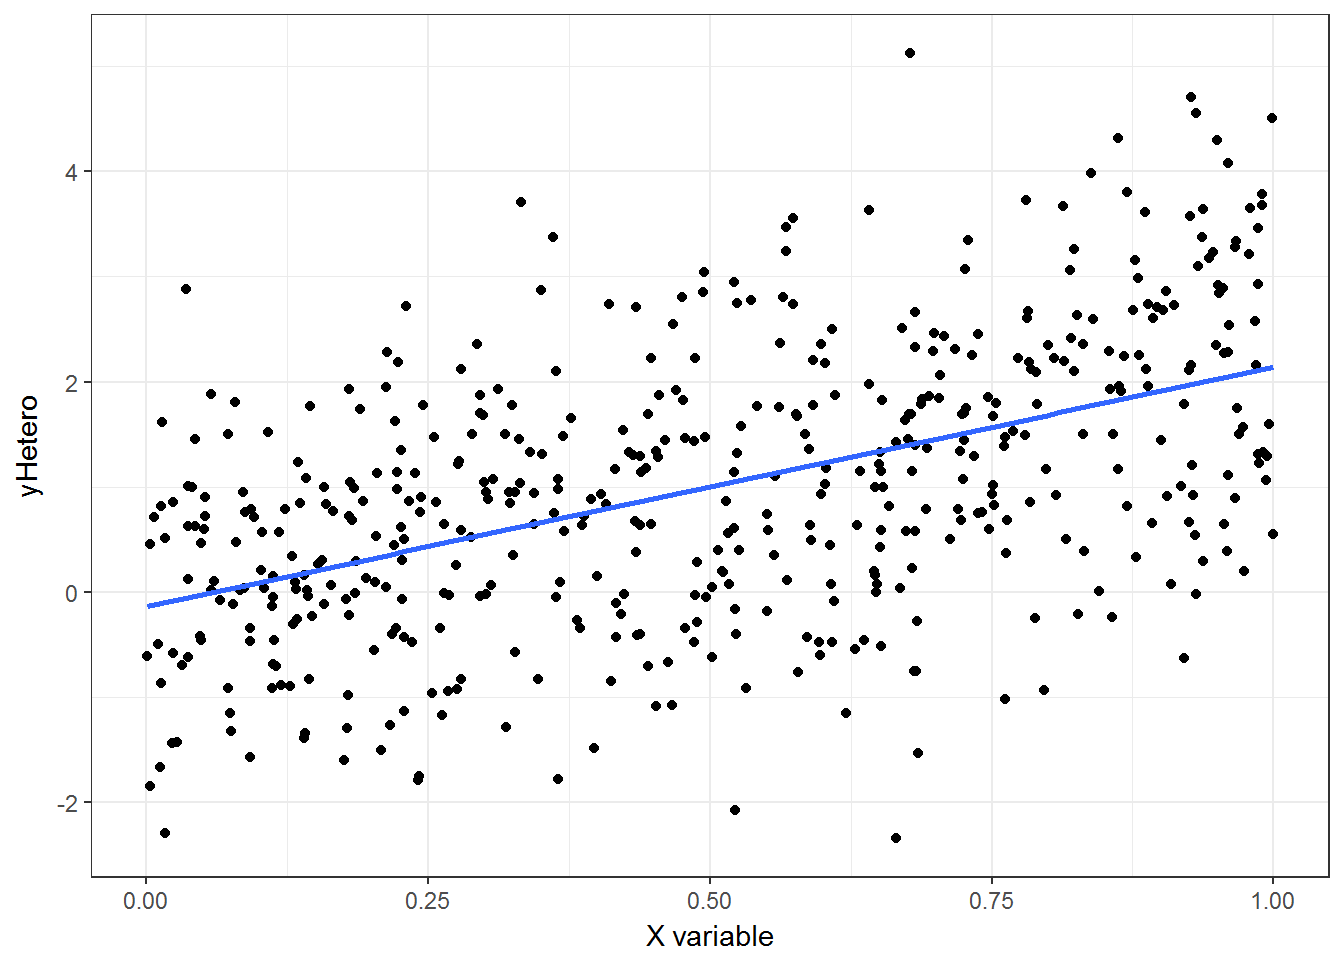
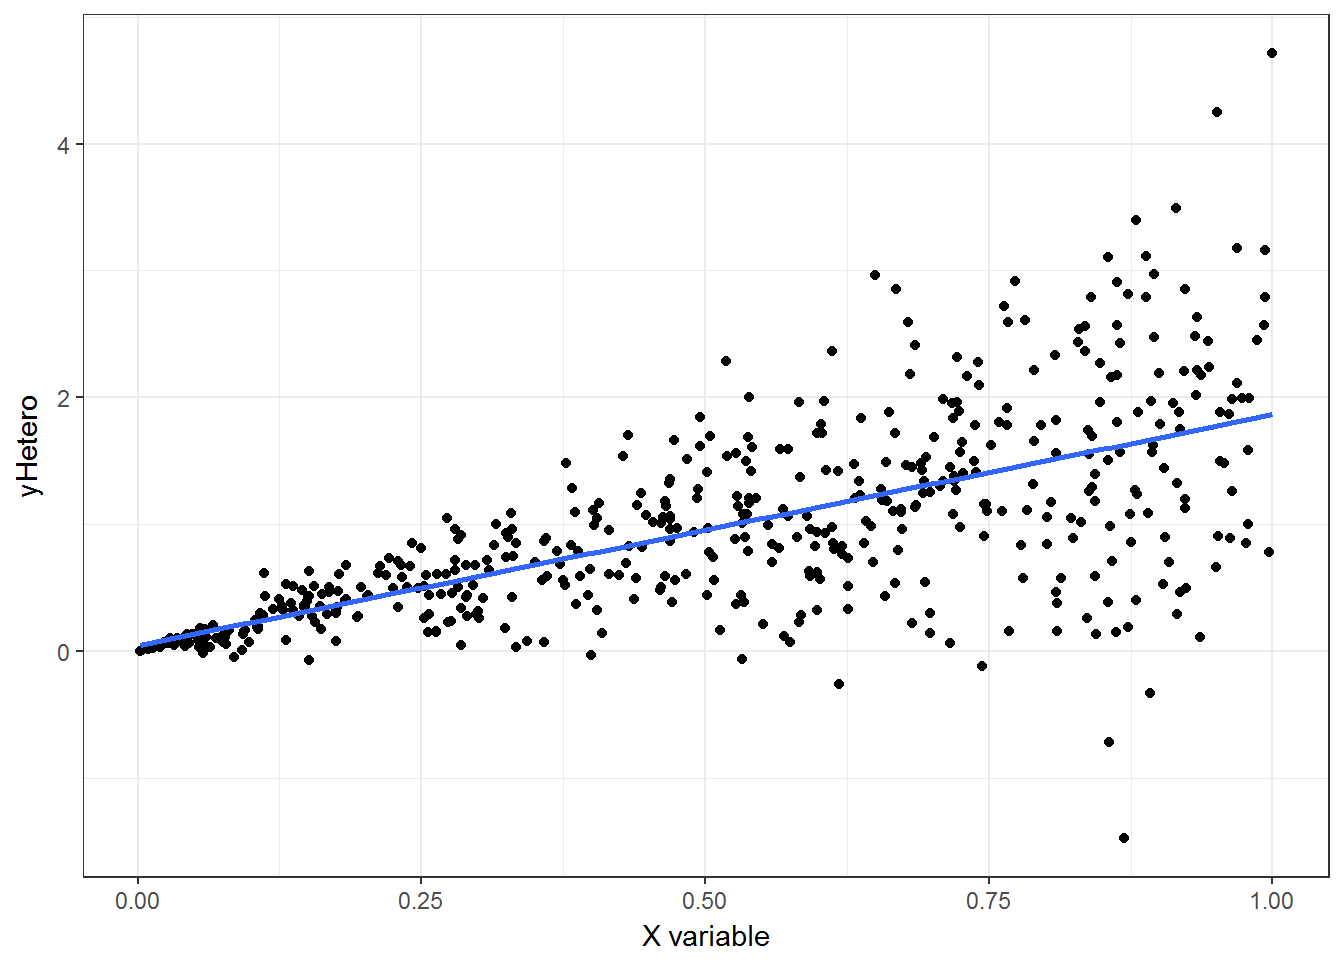
minor

diff --git a/docs/heteroskedastic-cluster-robust-standard-errors.html b/docs/heteroskedastic-cluster-robust-standard-errors.html
@@ -111,7 +111,7 @@ code > span.in { color: #60a0b0; font-weight: bold; font-style: italic; } /* Inf
 <li class="chapter" data-level="1.2" data-path="heteroskedastic-cluster-robust-standard-errors.html"><a href="heteroskedastic-cluster-robust-standard-errors.html#heteroskedascity"><i class="fa fa-check"></i><b>1.2</b> Heteroskedascity</a></li>
 <li class="chapter" data-level="1.3" data-path="heteroskedastic-cluster-robust-standard-errors.html"><a href="heteroskedastic-cluster-robust-standard-errors.html#clustering"><i class="fa fa-check"></i><b>1.3</b> Clustering</a></li>
 <li class="chapter" data-level="1.4" data-path="heteroskedastic-cluster-robust-standard-errors.html"><a href="heteroskedastic-cluster-robust-standard-errors.html#test-data"><i class="fa fa-check"></i><b>1.4</b> Test data</a></li>
-<li class="chapter" data-level="1.5" data-path="heteroskedastic-cluster-robust-standard-errors.html"><a href="heteroskedastic-cluster-robust-standard-errors.html#standard-least-squares-with-homoskedasctic-standard-errors"><i class="fa fa-check"></i><b>1.5</b> Standard Least Squares with homoskedasctic standard errors</a></li>
+<li class="chapter" data-level="1.5" data-path="heteroskedastic-cluster-robust-standard-errors.html"><a href="heteroskedastic-cluster-robust-standard-errors.html#standard-errors-under-iid"><i class="fa fa-check"></i><b>1.5</b> Standard Errors under iid</a></li>
 <li class="chapter" data-level="1.6" data-path="heteroskedastic-cluster-robust-standard-errors.html"><a href="heteroskedastic-cluster-robust-standard-errors.html#heteroskedastic-consistent-errors-in-r"><i class="fa fa-check"></i><b>1.6</b> Heteroskedastic consistent errors in R</a></li>
 <li class="chapter" data-level="1.7" data-path="heteroskedastic-cluster-robust-standard-errors.html"><a href="heteroskedastic-cluster-robust-standard-errors.html#cluster-robust-errors-in-r"><i class="fa fa-check"></i><b>1.7</b> Cluster robust errors in R</a></li>
 <li class="chapter" data-level="1.8" data-path="heteroskedastic-cluster-robust-standard-errors.html"><a href="heteroskedastic-cluster-robust-standard-errors.html#block-bootstrapping"><i class="fa fa-check"></i><b>1.8</b> Block bootstrapping</a><ul>
@@ -180,7 +180,7 @@ code > span.in { color: #60a0b0; font-weight: bold; font-style: italic; } /* Inf
 <div class="sourceCode"><pre class="sourceCode r"><code class="sourceCode r"><span class="co">#Generate Data  </span>
   x &lt;-<span class="st"> </span><span class="kw">runif</span>(<span class="dv">500</span>)
   yHomo &lt;-<span class="st"> </span><span class="dv">2</span>*x +<span class="st"> </span><span class="kw">rnorm</span>(<span class="dv">500</span>)
-  yHetero &lt;-<span class="st"> </span><span class="dv">2</span>*x +<span class="st"> </span>x*<span class="kw">rnorm</span>(<span class="dv">500</span>) +<span class="st"> </span><span class="kw">rnorm</span>(<span class="dv">500</span>)
+  yHetero &lt;-<span class="st"> </span><span class="dv">2</span>*x +<span class="st"> </span>x*<span class="kw">rnorm</span>(<span class="dv">500</span>)
   df &lt;-<span class="st"> </span><span class="kw">as.data.frame</span>(<span class="kw">cbind</span>(x, yHomo, yHetero))
 
 <span class="co">#Scatter and Fitted Line </span>
@@ -224,11 +224,11 @@ df &lt;-<span class="st"> </span><span class="kw">as_tibble</span>(<span class="
 ## 4     1     4 -0.1524857 -1.1093940
 ## 5     1     5 -0.0014262  0.9146864
 ## 6     1     6 -1.2127370 -1.4246860</code></pre>
-<p>This data represents financial information by year on a group of firms. We use this as a benchmark because several other online posts/bloggers compare this data using different specifications and software (<span class="citation">Petersen (<a href="#ref-peterson2009">2009</a>)</span>).</p>
+<p>This data represents financial information by year on a group of firms. We use this as a benchmark because several other online posts/bloggers compare this data using different specifications and software.<span class="citation">Petersen (<a href="#ref-peterson2009">2009</a>)</span></p>
 <p>The expected results we will recreate are given here: <a href="http://www.kellogg.northwestern.edu/faculty/petersen/htm/papers/se/test_data.htm" class="uri">http://www.kellogg.northwestern.edu/faculty/petersen/htm/papers/se/test_data.htm</a></p>
 </div>
-<div id="standard-least-squares-with-homoskedasctic-standard-errors" class="section level2">
-<h2><span class="header-section-number">1.5</span> Standard Least Squares with homoskedasctic standard errors</h2>
+<div id="standard-errors-under-iid" class="section level2">
+<h2><span class="header-section-number">1.5</span> Standard Errors under iid</h2>
 <div class="sourceCode"><pre class="sourceCode r"><code class="sourceCode r">m1 &lt;-<span class="st"> </span><span class="kw">lm</span>(y ~<span class="st"> </span>x, <span class="dt">data =</span> df)
 <span class="kw">coeftest</span>(m1)</code></pre></div>
 <pre><code>## 
@@ -240,19 +240,19 @@ df &lt;-<span class="st"> </span><span class="kw">as_tibble</span>(<span class="
 ## ---
 ## Signif. codes:  0 &#39;***&#39; 0.001 &#39;**&#39; 0.01 &#39;*&#39; 0.05 &#39;.&#39; 0.1 &#39; &#39; 1</code></pre>
 <p>You can compare these results with Table “OLS Coefficients and Standard Errors”. R computes the regression coefficients with <span class="math inline">\(( \textbf{X}&#39;\textbf{X})^{-1}\textbf{X}&#39;\textbf{y}\)</span> i.e. the coefficient is a function of X and y.</p>
-<p>Variance in general is computed like so: <span class="math inline">\(Var(X) = E[X − E(X)]^2 = E[(X − E(X)) (X − E(X))]\)</span></p>
 <p>In a regression framework you compute standard errors by taking the square root of the diagonal elements of the variance-covariance matrix.</p>
-<p>Equation 1. Covariance matrix of the error term <span class="math inline">\(u\)</span> <span class="math inline">\(E[{uu}&#39;|\textbf{X}] = \mathbf{\Sigma_{u}}\)</span></p>
+<p>Equation 1. Covariance matrix of the error term <span class="math inline">\(u\)</span><br />
+<span class="math inline">\(E[{uu}&#39;|\textbf{X}] = \mathbf{\Sigma_{u}}\)</span></p>
 <p>Equation 2.<br />
 <span class="math inline">\(\mathbf{\Sigma_{u}} = \sigma^2 I_{N}\)</span></p>
 <p>Equation 3. Expectation of the variance of <span class="math inline">\(\beta\)</span> conditional on X.<br />
 <span class="math inline">\(\textrm{Var}[\hat{\mathbf{\beta}}|\textbf{X}] = (\textbf{X}&#39;\textbf{X})^{-1}(\textbf{X}&#39; \mathbf{\Sigma_{u}} \textbf{X}) (\textbf{X}&#39;\textbf{X})^{-1}\)</span></p>
-<p>Under the assumption of independent and identically distributed errors and homoskedascity, Equation 3 is simplified to equation 4 (transpose matrix, using diagonal elements).</p>
+<p>Under the assumption of independent and identically distributed errors (homoskedascity), Eq. 3 is simplified to eq. 4 (transpose matrix, using diagonal elements).</p>
 <p>Equation 4. iid assumed <span class="math inline">\(\textrm{Var}[\hat{\mathbf{\beta}}|\textbf{X}] = \sigma_{u}^{2}(\textbf{X}&#39;\textbf{X})^{-1}\)</span></p>
 <p>Assuming <span class="math inline">\(\sigma_u^2\)</span> is fixed but unknown, and equation to esimate <span class="math inline">\(s^2\)</span> can be used:</p>
-<p>Equation 5. standard error</p>
+<p>Equation 5. Standard Error</p>
 <p><span class="math inline">\(s^2 = \frac{\sum_{i=1}^n e_i^2}{n-k}\)</span></p>
-<p>Where <span class="math inline">\(e\)</span> squared residuals, <span class="math inline">\(n\)</span> is the sample size, and <span class="math inline">\(k\)</span> are the number of regressors.</p>
+<p>Where <span class="math inline">\(e\)</span> are the squared residuals, <span class="math inline">\(n\)</span> is the sample size, and <span class="math inline">\(k\)</span> are the number of regressors.</p>
 <p>With this information the standard errors above can be replicated manually like so:</p>
 <div class="sourceCode"><pre class="sourceCode r"><code class="sourceCode r"><span class="co"># get X matrix/predictors</span>
 X &lt;-<span class="st"> </span><span class="kw">model.matrix</span>(m1)
@@ -380,9 +380,7 @@ STATA blog:<br />
 <h2><span class="header-section-number">1.10</span> Acknowledgements</h2>
 <p>This chapter is heavily adapted from several StackExchange and other blog posts. See:<br />
 <a href="http://www.richard-bluhm.com/clustered-ses-in-r-and-stata-2/" class="uri">http://www.richard-bluhm.com/clustered-ses-in-r-and-stata-2/</a><br />
-<a href="http://www.kellogg.northwestern.edu/faculty/petersen/htm/papers/standarderror_extra_tables.pdf" class="uri">http://www.kellogg.northwestern.edu/faculty/petersen/htm/papers/standarderror_extra_tables.pdf</a><br />
 <a href="https://sites.google.com/site/waynelinchang/r-code" class="uri">https://sites.google.com/site/waynelinchang/r-code</a><br />
-<a href="http://www.kellogg.northwestern.edu/faculty/petersen/htm/papers/se/test_data.htm" class="uri">http://www.kellogg.northwestern.edu/faculty/petersen/htm/papers/se/test_data.htm</a><br />
 <a href="https://thetarzan.wordpress.com/2011/05/28/heteroskedasticity-robust-and-clustered-standard-errors-in-r/" class="uri">https://thetarzan.wordpress.com/2011/05/28/heteroskedasticity-robust-and-clustered-standard-errors-in-r/</a></p>
 </div>
 <div id="bibliography" class="section level2">

diff --git a/docs/ggplot2-examples.html b/docs/ggplot2-examples.html
@@ -111,7 +111,7 @@ code > span.in { color: #60a0b0; font-weight: bold; font-style: italic; } /* Inf
 <li class="chapter" data-level="1.2" data-path="heteroskedastic-cluster-robust-standard-errors.html"><a href="heteroskedastic-cluster-robust-standard-errors.html#heteroskedascity"><i class="fa fa-check"></i><b>1.2</b> Heteroskedascity</a></li>
 <li class="chapter" data-level="1.3" data-path="heteroskedastic-cluster-robust-standard-errors.html"><a href="heteroskedastic-cluster-robust-standard-errors.html#clustering"><i class="fa fa-check"></i><b>1.3</b> Clustering</a></li>
 <li class="chapter" data-level="1.4" data-path="heteroskedastic-cluster-robust-standard-errors.html"><a href="heteroskedastic-cluster-robust-standard-errors.html#test-data"><i class="fa fa-check"></i><b>1.4</b> Test data</a></li>
-<li class="chapter" data-level="1.5" data-path="heteroskedastic-cluster-robust-standard-errors.html"><a href="heteroskedastic-cluster-robust-standard-errors.html#standard-least-squares-with-homoskedasctic-standard-errors"><i class="fa fa-check"></i><b>1.5</b> Standard Least Squares with homoskedasctic standard errors</a></li>
+<li class="chapter" data-level="1.5" data-path="heteroskedastic-cluster-robust-standard-errors.html"><a href="heteroskedastic-cluster-robust-standard-errors.html#standard-errors-under-iid"><i class="fa fa-check"></i><b>1.5</b> Standard Errors under iid</a></li>
 <li class="chapter" data-level="1.6" data-path="heteroskedastic-cluster-robust-standard-errors.html"><a href="heteroskedastic-cluster-robust-standard-errors.html#heteroskedastic-consistent-errors-in-r"><i class="fa fa-check"></i><b>1.6</b> Heteroskedastic consistent errors in R</a></li>
 <li class="chapter" data-level="1.7" data-path="heteroskedastic-cluster-robust-standard-errors.html"><a href="heteroskedastic-cluster-robust-standard-errors.html#cluster-robust-errors-in-r"><i class="fa fa-check"></i><b>1.7</b> Cluster robust errors in R</a></li>
 <li class="chapter" data-level="1.8" data-path="heteroskedastic-cluster-robust-standard-errors.html"><a href="heteroskedastic-cluster-robust-standard-errors.html#block-bootstrapping"><i class="fa fa-check"></i><b>1.8</b> Block bootstrapping</a><ul>

diff --git a/docs/index.html b/docs/index.html
@@ -111,7 +111,7 @@ code > span.in { color: #60a0b0; font-weight: bold; font-style: italic; } /* Inf
 <li class="chapter" data-level="1.2" data-path="heteroskedastic-cluster-robust-standard-errors.html"><a href="heteroskedastic-cluster-robust-standard-errors.html#heteroskedascity"><i class="fa fa-check"></i><b>1.2</b> Heteroskedascity</a></li>
 <li class="chapter" data-level="1.3" data-path="heteroskedastic-cluster-robust-standard-errors.html"><a href="heteroskedastic-cluster-robust-standard-errors.html#clustering"><i class="fa fa-check"></i><b>1.3</b> Clustering</a></li>
 <li class="chapter" data-level="1.4" data-path="heteroskedastic-cluster-robust-standard-errors.html"><a href="heteroskedastic-cluster-robust-standard-errors.html#test-data"><i class="fa fa-check"></i><b>1.4</b> Test data</a></li>
-<li class="chapter" data-level="1.5" data-path="heteroskedastic-cluster-robust-standard-errors.html"><a href="heteroskedastic-cluster-robust-standard-errors.html#standard-least-squares-with-homoskedasctic-standard-errors"><i class="fa fa-check"></i><b>1.5</b> Standard Least Squares with homoskedasctic standard errors</a></li>
+<li class="chapter" data-level="1.5" data-path="heteroskedastic-cluster-robust-standard-errors.html"><a href="heteroskedastic-cluster-robust-standard-errors.html#standard-errors-under-iid"><i class="fa fa-check"></i><b>1.5</b> Standard Errors under iid</a></li>
 <li class="chapter" data-level="1.6" data-path="heteroskedastic-cluster-robust-standard-errors.html"><a href="heteroskedastic-cluster-robust-standard-errors.html#heteroskedastic-consistent-errors-in-r"><i class="fa fa-check"></i><b>1.6</b> Heteroskedastic consistent errors in R</a></li>
 <li class="chapter" data-level="1.7" data-path="heteroskedastic-cluster-robust-standard-errors.html"><a href="heteroskedastic-cluster-robust-standard-errors.html#cluster-robust-errors-in-r"><i class="fa fa-check"></i><b>1.7</b> Cluster robust errors in R</a></li>
 <li class="chapter" data-level="1.8" data-path="heteroskedastic-cluster-robust-standard-errors.html"><a href="heteroskedastic-cluster-robust-standard-errors.html#block-bootstrapping"><i class="fa fa-check"></i><b>1.8</b> Block bootstrapping</a><ul>

diff --git a/docs/01-vcovHC.md b/docs/01-vcovHC.md
@@ -37,7 +37,7 @@ In this chapter we are evaluating R's capability to compute different kinds of s
 #Generate Data  
   x <- runif(500)
   yHomo <- 2*x + rnorm(500)
-  yHetero <- 2*x + x*rnorm(500) + rnorm(500)
+  yHetero <- 2*x + x*rnorm(500)
   df <- as.data.frame(cbind(x, yHomo, yHetero))
 
 #Scatter and Fitted Line 
@@ -103,12 +103,12 @@ head(df)
 ## 5     1     5 -0.0014262  0.9146864
 ## 6     1     6 -1.2127370 -1.4246860
 ```
-  This data represents financial information by year on a group of firms. We use this as a benchmark because several other online posts/bloggers compare this data using different specifications and software (@peterson2009).
+  This data represents financial information by year on a group of firms. We use this as a benchmark because several other online posts/bloggers compare this data using different specifications and software.@peterson2009
   
 The expected results we will recreate are given here:
 http://www.kellogg.northwestern.edu/faculty/petersen/htm/papers/se/test_data.htm
 
-## Standard Least Squares with homoskedasctic standard errors  
+## Standard Errors under iid  
 
 ```r
 m1 <- lm(y ~ x, data = df)
@@ -128,12 +128,9 @@ coeftest(m1)
 
 You can compare these results with Table "OLS Coefficients and Standard Errors". R computes the regression coefficients with $( \textbf{X}'\textbf{X})^{-1}\textbf{X}'\textbf{y}$ i.e. the coefficient is a function of X and y.
 
-Variance in general is computed like so:
-$Var(X) = E[X − E(X)]^2 = E[(X − E(X)) (X − E(X))]$
-
 In a regression framework you compute standard errors by taking the square root of the diagonal elements of the variance-covariance matrix. 
 
-Equation 1. Covariance matrix of the error term $u$
+Equation 1. Covariance matrix of the error term $u$  
 $E[{uu}'|\textbf{X}] = \mathbf{\Sigma_{u}}$
 
 Equation 2.  
@@ -142,18 +139,18 @@ $\mathbf{\Sigma_{u}} = \sigma^2 I_{N}$
 Equation 3. Expectation of the variance of $\beta$ conditional on X.  
 $\textrm{Var}[\hat{\mathbf{\beta}}|\textbf{X}] = (\textbf{X}'\textbf{X})^{-1}(\textbf{X}' \mathbf{\Sigma_{u}} \textbf{X}) (\textbf{X}'\textbf{X})^{-1}$
 
-Under the assumption of independent and identically distributed errors and homoskedascity, Equation 3 is simplified to equation 4 (transpose matrix, using diagonal elements).  
+Under the assumption of independent and identically distributed errors (homoskedascity), Eq. 3 is simplified to eq. 4 (transpose matrix, using diagonal elements).  
 
 Equation 4. iid assumed
 $\textrm{Var}[\hat{\mathbf{\beta}}|\textbf{X}] = \sigma_{u}^{2}(\textbf{X}'\textbf{X})^{-1}$
 
 Assuming $\sigma_u^2$ is fixed but unknown, and equation to esimate $s^2$ can be used:
 
-Equation 5. standard error
+Equation 5. Standard Error
 
 $s^2 = \frac{\sum_{i=1}^n e_i^2}{n-k}$
 
-Where $e$ squared residuals, $n$ is the sample size, and $k$ are the number of regressors. 
+Where $e$ are the squared residuals, $n$ is the sample size, and $k$ are the number of regressors. 
 
 With this information the standard errors above can be replicated manually like so:
 
@@ -272,7 +269,6 @@ Boot.ATE <- function (model, treat, R = 250, block = "", df)
 ```
 
 ## Stata comparison  
-
 A full discussion of STATA programming can be seen here:   http://www.kellogg.northwestern.edu/faculty/petersen/htm/papers/se/se_programming.htm  
 STATA blog:  
 http://www.stata.com/support/faqs/statistics/standard-errors-and-vce-cluster-option/  
@@ -299,9 +295,7 @@ http://www.stata.com/support/faqs/statistics/standard-errors-and-vce-cluster-opt
 This chapter is heavily adapted from several StackExchange and other blog posts.
 See:  
 http://www.richard-bluhm.com/clustered-ses-in-r-and-stata-2/  
-http://www.kellogg.northwestern.edu/faculty/petersen/htm/papers/standarderror_extra_tables.pdf  
 https://sites.google.com/site/waynelinchang/r-code  
-http://www.kellogg.northwestern.edu/faculty/petersen/htm/papers/se/test_data.htm  
 https://thetarzan.wordpress.com/2011/05/28/heteroskedasticity-robust-and-clustered-standard-errors-in-r/  
 
 ## Bibliography  
